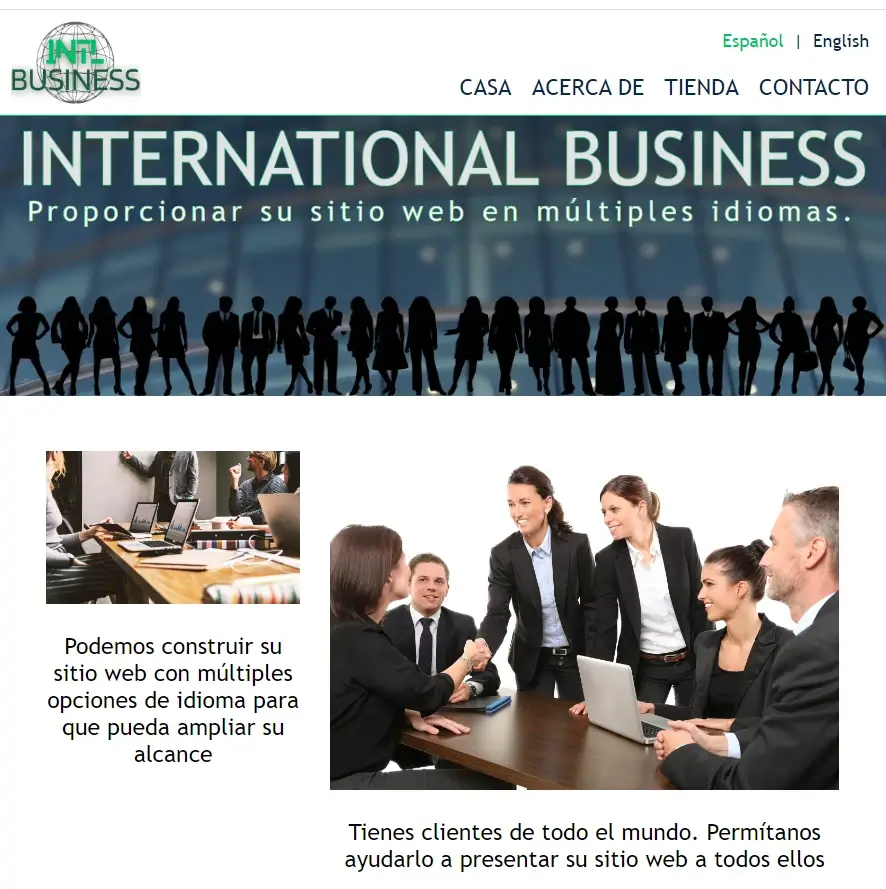
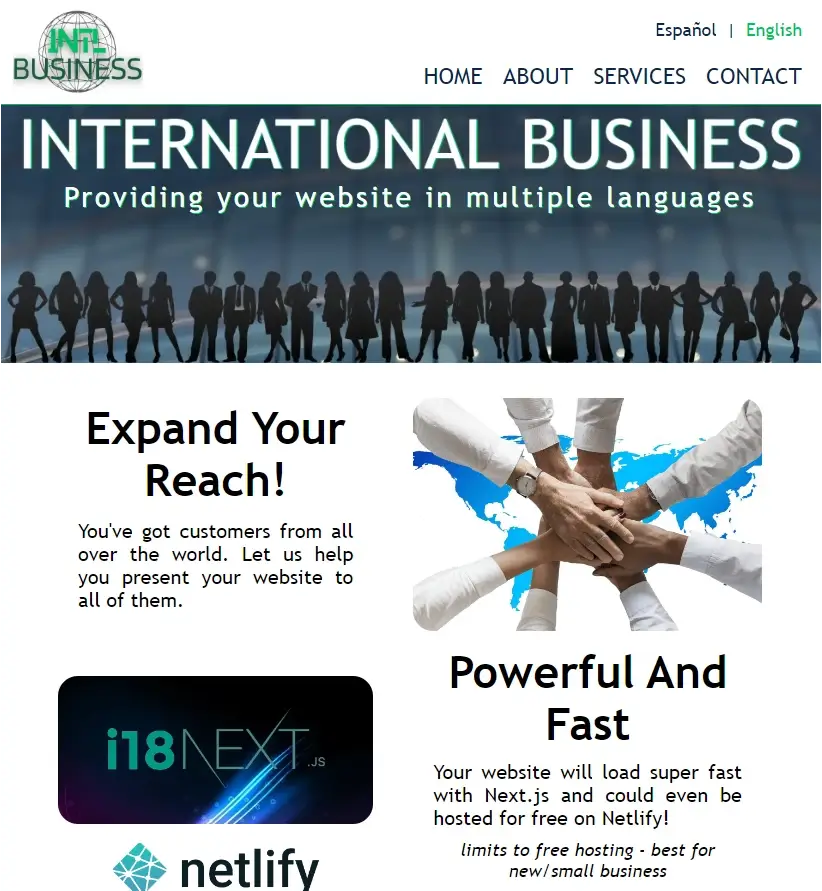
styles

diff --git a/styles/Home.module.css b/styles/Home.module.css
@@ -12,6 +12,7 @@
   background-color: white;
   padding: 20px;
   margin-bottom: 20px;
+  border-radius: 10px;
 }
 .projectDescript {
   padding: 10px;
@@ -20,6 +21,7 @@
 .projectImg {
 padding: 10px;
 background-color: #0e1d30;
+border-radius: 5px;
 }
 
 .homeTitle {
